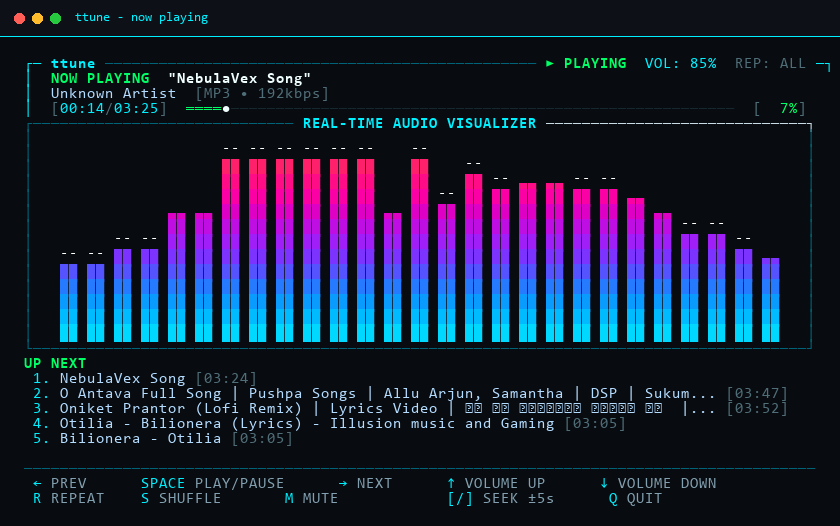
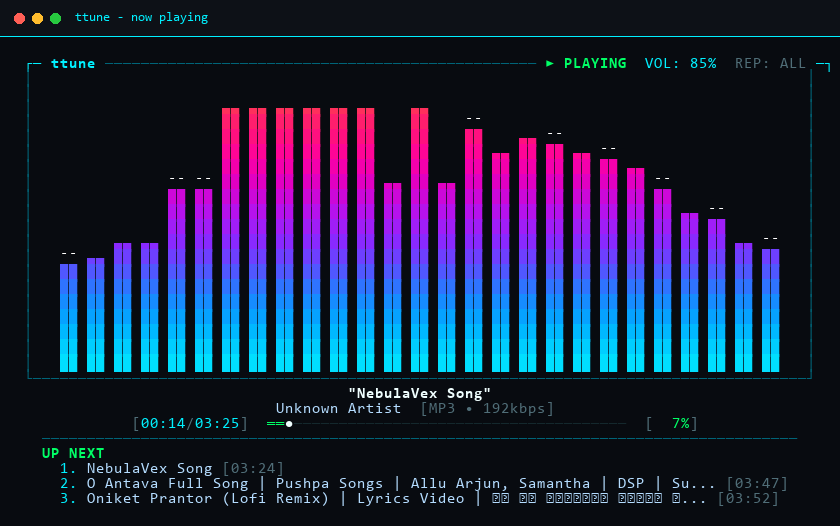
fix(ui): anchor visualizer to top, center metadata below, remove tutorial footer, and add visualizer-only mode (H)

diff --git a/ttune/ui/renderer.py b/ttune/ui/renderer.py
@@ -67,7 +67,6 @@ def fit_text(text: str, max_width: int) -> str:
     if max_width <= 0:
         return ""
 
-    # Check if text already fits
     current_w = sum(char_width(c) for c in text)
     if current_w <= max_width:
         return text
@@ -86,6 +85,14 @@ def fit_text(text: str, max_width: int) -> str:
     if max_width >= 4:
         return "".join(accum) + "..."
     return "".join(accum)
+
+
+def center_text(text: str, total_width: int) -> str:
+    """Center text within total_width display columns."""
+    w = string_width(text)
+    pad = max(0, total_width - w)
+    pad_left = pad // 2
+    return f"{' ' * pad_left}{text}"
 
 
 class UIRenderer:
@@ -107,13 +114,14 @@ class UIRenderer:
         is_muted: bool,
         spectrum_bars: np.ndarray,
         spectrum_peaks: np.ndarray,
+        visualizer_only: bool = False,
     ) -> List[str]:
         """Compose all components into a list of terminal screen lines.
 
         Guaranteed not to exceed `lines` rows, preventing scrolling artifacts.
         """
         cols = max(40, cols)
-        lines = max(16, lines)
+        lines = max(14, lines)
         out: List[str] = []
 
         c_border = color_fg(COLOR_BORDER)
@@ -130,15 +138,23 @@ class UIRenderer:
         # 1. TOP HEADER: ttune & STATUS
         # -------------------------------------------------------------
         app_tag = f"{c_border}{STYLE_BOLD}ttune{STYLE_RESET}"
-        status_tag = f"{c_green}{STYLE_BOLD}► PLAYING{STYLE_RESET}" if (is_playing and not is_paused) else (
-            f"{c_badge}{STYLE_BOLD}❚❚ PAUSED{STYLE_RESET}" if is_paused else f"{c_dim}■ STOPPED{STYLE_RESET}"
-        )
-        vol_pct = int(round(volume * 100))
-        vol_tag = f"{c_dim}MUTE{STYLE_RESET}" if is_muted else f"{c_badge}VOL: {vol_pct}%{STYLE_RESET}"
-        rep_tag = f"{c_dim}REP: {playlist.repeat_mode.value}{STYLE_RESET}"
-        shuf_tag = f"{c_green}SHUF{STYLE_RESET}" if playlist.shuffle_enabled else ""
 
-        tags = [t for t in [status_tag, vol_tag, rep_tag, shuf_tag] if t]
+        if visualizer_only:
+            status_tag = f"{c_green}{STYLE_BOLD}► VISUALIZER ONLY{STYLE_RESET}"
+            vol_pct = int(round(volume * 100))
+            vol_tag = f"{c_dim}MUTE{STYLE_RESET}" if is_muted else f"{c_badge}VOL: {vol_pct}%{STYLE_RESET}"
+            hint_tag = f"{c_dim}[H] RESTORE UI{STYLE_RESET}"
+            tags = [status_tag, vol_tag, hint_tag]
+        else:
+            status_tag = f"{c_green}{STYLE_BOLD}► PLAYING{STYLE_RESET}" if (is_playing and not is_paused) else (
+                f"{c_badge}{STYLE_BOLD}❚❚ PAUSED{STYLE_RESET}" if is_paused else f"{c_dim}■ STOPPED{STYLE_RESET}"
+            )
+            vol_pct = int(round(volume * 100))
+            vol_tag = f"{c_dim}MUTE{STYLE_RESET}" if is_muted else f"{c_badge}VOL: {vol_pct}%{STYLE_RESET}"
+            rep_tag = f"{c_dim}REP: {playlist.repeat_mode.value}{STYLE_RESET}"
+            shuf_tag = f"{c_green}SHUF{STYLE_RESET}" if playlist.shuffle_enabled else ""
+            tags = [t for t in [status_tag, vol_tag, rep_tag, shuf_tag] if t]
+
         tags_str = "  ".join(tags)
 
         left_header = f" {app_tag} "
@@ -151,7 +167,67 @@ class UIRenderer:
         out.append(header_line)
 
         # -------------------------------------------------------------
-        # 2. NOW PLAYING METADATA
+        # 2. PURE VISUALIZER MODE (Activated with 'h' key)
+        # -------------------------------------------------------------
+        if visualizer_only:
+            # Visualizer fills the entire remaining screen height!
+            viz_height = max(4, lines - 2)
+            viz_inner_width = max(10, cols - 4)
+
+            bars_lines = self.visualizer.render(
+                width=viz_inner_width,
+                height=viz_height,
+                bar_heights=spectrum_bars,
+                peak_heights=spectrum_peaks,
+            )
+
+            for bl in bars_lines:
+                vis_len = string_width(bl)
+                right_fill = " " * max(0, viz_inner_width - vis_len)
+                out.append(f"{c_border_dim}{BOX_VERT}{STYLE_RESET} {bl}{right_fill} {c_border_dim}{BOX_VERT}{STYLE_RESET}")
+
+            # Bottom border
+            viz_bottom = f"{c_border}{BOX_BOTTOM_LEFT}{BOX_HORIZ * (cols - 2)}{BOX_BOTTOM_RIGHT}{STYLE_RESET}"
+            out.append(viz_bottom)
+            return out[:lines]
+
+        # -------------------------------------------------------------
+        # 3. EXTENDED VISUALIZER AT THE TOP (Prevents layout bouncing!)
+        # -------------------------------------------------------------
+        # Calculate rows needed for bottom metadata section
+        # Metadata section:
+        # - Centered Title: 1 row
+        # - Centered Artist / Album / Format: 1 row
+        # - Centered Progress Bar: 1 row
+        # - Divider / Spacing: 1 row
+        # - UP NEXT header: 1 row
+        # - UP NEXT tracks: up_next_count (2 to 4 rows)
+        # Total bottom section lines = 5 + up_next_count
+        up_next_count = 2 if lines < 25 else (3 if lines < 32 else (4 if lines < 40 else 5))
+        bottom_needed = 5 + up_next_count
+        # Visualizer height: top header (1) + viz bottom border (1) + bottom_needed
+        viz_height = max(4, lines - 2 - bottom_needed)
+        viz_inner_width = max(10, cols - 4)
+
+        # Render spectrum bars directly at top
+        bars_lines = self.visualizer.render(
+            width=viz_inner_width,
+            height=viz_height,
+            bar_heights=spectrum_bars,
+            peak_heights=spectrum_peaks,
+        )
+
+        for bl in bars_lines:
+            vis_len = string_width(bl)
+            right_fill = " " * max(0, viz_inner_width - vis_len)
+            out.append(f"{c_border_dim}{BOX_VERT}{STYLE_RESET} {bl}{right_fill} {c_border_dim}{BOX_VERT}{STYLE_RESET}")
+
+        # Visualizer bottom frame border
+        viz_bottom = f"{c_border_dim}{BOX_BOTTOM_LEFT}{BOX_HORIZ * (cols - 2)}{BOX_BOTTOM_RIGHT}{STYLE_RESET}"
+        out.append(viz_bottom)
+
+        # -------------------------------------------------------------
+        # 4. SONG DETAILS & TRACK INFO (CENTERED IN THE MIDDLE)
         # -------------------------------------------------------------
         current_meta = playlist.current_track()
         if current_meta:
@@ -169,19 +245,18 @@ class UIRenderer:
             artist_album = "Select a media file or folder to start playback"
             fmt_badge = ""
 
-        now_tag = f"{c_green}{STYLE_BOLD}NOW PLAYING{STYLE_RESET}"
-        title_disp = fit_text(f'"{song_title}"', max(10, cols - 6))
-        meta_disp = fit_text(artist_album, max(10, cols - string_width(fmt_badge) - 8))
+        # A: Centered Song Title
+        max_title_w = max(10, cols - 8)
+        title_fitted = fit_text(f'"{song_title}"', max_title_w)
+        title_styled = f"{c_title}{STYLE_BOLD}{title_fitted}{STYLE_RESET}"
+        out.append(center_text(title_styled, cols))
 
-        # Line A: Tag & Title
-        out.append(f"{c_border}{BOX_VERT}{STYLE_RESET}  {now_tag}  {c_title}{STYLE_BOLD}{title_disp}{STYLE_RESET}")
-        # Line B: Artist / Album & Audio Badge
-        meta_line = f"{c_border}{BOX_VERT}{STYLE_RESET}  {c_artist}{meta_disp}{STYLE_RESET}  {c_dim}{fmt_badge}{STYLE_RESET}"
-        out.append(meta_line)
+        # B: Centered Artist / Album & Format Badge
+        meta_str = f"{c_artist}{artist_album}{STYLE_RESET}  {c_dim}{fmt_badge}{STYLE_RESET}"
+        meta_fitted = fit_text(meta_str, max(10, cols - 8))
+        out.append(center_text(meta_fitted, cols))
 
-        # -------------------------------------------------------------
-        # 3. PLAYBACK PROGRESS BAR
-        # -------------------------------------------------------------
+        # C: Centered Playback Progress Bar
         cur_str = format_duration(current_pos)
         dur_str = format_duration(duration) if duration > 0 else "--:--"
         pct = (current_pos / duration) if duration > 0 else 0.0
@@ -191,10 +266,11 @@ class UIRenderer:
         time_tag = f"{c_dim}[{c_badge}{cur_str}{c_dim}/{c_badge}{dur_str}{c_dim}]{STYLE_RESET}"
         pct_tag = f"{c_dim}[{c_green}{pct_int:3d}%{c_dim}]{STYLE_RESET}"
 
-        fixed_len = string_width(time_tag) + string_width(pct_tag) + 8
-        bar_avail = max(10, cols - fixed_len)
-        filled_len = int(pct * bar_avail)
-        empty_len = max(0, bar_avail - filled_len - 1)
+        # Calculate progress bar width (centered, max 50 chars wide)
+        fixed_len = string_width(time_tag) + string_width(pct_tag) + 6
+        target_bar_len = min(40, max(8, cols - fixed_len - 10))
+        filled_len = int(pct * target_bar_len)
+        empty_len = max(0, target_bar_len - filled_len - 1)
 
         c_fill = color_fg(COLOR_PROGRESS_BAR)
         c_bg = color_fg(COLOR_PROGRESS_BG)
@@ -203,54 +279,18 @@ class UIRenderer:
             f"{color_fg(COLOR_TITLE)}{PROG_KNOB}"
             f"{c_bg}{PROG_EMPTY * empty_len}{STYLE_RESET}"
         )
-        progress_line = f"{c_border}{BOX_VERT}{STYLE_RESET}  {time_tag}  {prog_bar_str}  {pct_tag}"
-        out.append(progress_line)
-
-        # -------------------------------------------------------------
-        # 4. REAL-TIME AUDIO VISUALIZER
-        # -------------------------------------------------------------
-        # Determine heights based on available terminal lines
-        # Fixed lines:
-        # Header (1) + Now Playing (3) + Progress (1) + Viz Borders (2) = 7
-        # Up next header (1) + Up next tracks (2..5) + Footer (3) = 6..9
-        # Total fixed = 13..16
-        up_next_count = 3 if lines < 26 else (5 if lines < 38 else 6)
-        footer_height = 3 if cols >= 65 else 4
-        fixed_lines = 7 + 1 + up_next_count + footer_height
-
-        viz_height = max(5, lines - fixed_lines)
-        viz_inner_width = max(10, cols - 4)
-
-        # Top border of visualizer box
-        viz_title = f" {c_border}{STYLE_BOLD}REAL-TIME AUDIO VISUALIZER{STYLE_RESET} "
-        v_title_len = string_width(viz_title)
-        v_dash = max(0, cols - 2 - v_title_len)
-        v_dash_left = v_dash // 2
-        v_dash_right = v_dash - v_dash_left
-        viz_top = f"{c_border_dim}{BOX_TOP_LEFT}{BOX_HORIZ * v_dash_left}{viz_title}{BOX_HORIZ * v_dash_right}{BOX_TOP_RIGHT}{STYLE_RESET}"
-        out.append(viz_top)
-
-        # Render spectrum bars
-        bars_lines = self.visualizer.render(
-            width=viz_inner_width,
-            height=viz_height,
-            bar_heights=spectrum_bars,
-            peak_heights=spectrum_peaks,
-        )
-
-        for bl in bars_lines:
-            vis_len = string_width(bl)
-            right_fill = " " * max(0, viz_inner_width - vis_len)
-            out.append(f"{c_border_dim}{BOX_VERT}{STYLE_RESET} {bl}{right_fill} {c_border_dim}{BOX_VERT}{STYLE_RESET}")
-
-        # Bottom border of visualizer box
-        viz_bottom = f"{c_border_dim}{BOX_BOTTOM_LEFT}{BOX_HORIZ * (cols - 2)}{BOX_BOTTOM_RIGHT}{STYLE_RESET}"
-        out.append(viz_bottom)
+        progress_line = f"{time_tag}  {prog_bar_str}  {pct_tag}"
+        out.append(center_text(progress_line, cols))
 
         # -------------------------------------------------------------
         # 5. UP NEXT PLAYLIST QUEUE
         # -------------------------------------------------------------
-        out.append(f"{c_green}{STYLE_BOLD}UP NEXT{STYLE_RESET}")
+        # Subtle horizontal divider
+        divider = f"{c_border_dim}{BOX_HORIZ * max(10, cols - 4)}{STYLE_RESET}"
+        out.append(center_text(divider, cols))
+
+        up_next_header = f"{c_green}{STYLE_BOLD}UP NEXT{STYLE_RESET}"
+        out.append(f"  {up_next_header}")
 
         up_next_tracks = playlist.get_up_next(count=up_next_count)
         if up_next_tracks:
@@ -258,52 +298,15 @@ class UIRenderer:
                 t_title = track.title
                 t_artist = f" - {track.artist}" if track.artist and track.artist != "Unknown Artist" else ""
                 t_dur = f"[{track.duration_str}]" if track.duration > 0 else ""
-                avail_title = max(10, cols - len(f" {idx}. ") - len(t_dur) - 4)
+                avail_title = max(10, cols - len(f"    {idx}. ") - len(t_dur) - 4)
                 combined = fit_text(f"{t_title}{t_artist}", avail_title)
-                line_str = f" {c_badge}{idx}.{STYLE_RESET} {c_artist}{combined}{STYLE_RESET} {c_dim}{t_dur}{STYLE_RESET}"
+                line_str = f"    {c_badge}{idx}.{STYLE_RESET} {c_artist}{combined}{STYLE_RESET} {c_dim}{t_dur}{STYLE_RESET}"
                 out.append(line_str)
         else:
-            out.append(f" {c_dim}1. [Queue empty - End of playlist]{STYLE_RESET}")
+            out.append(f"    {c_dim}1. [Queue empty - End of playlist]{STYLE_RESET}")
 
-        # -------------------------------------------------------------
-        # 6. KEYBOARD CONTROLS FOOTER
-        # -------------------------------------------------------------
-        # Pad with empty lines if needed
-        while len(out) < lines - footer_height:
+        # Ensure exact lines count without scrolling
+        while len(out) < lines:
             out.append("")
-
-        # Divider line
-        foot_border = f"{c_border_dim}{BOX_HORIZ * cols}{STYLE_RESET}"
-        out.append(foot_border)
-
-        if cols >= 80:
-            # Full 2-row controls
-            row1 = (
-                f" {c_badge}←{STYLE_RESET} {c_key_txt}PREV{STYLE_RESET}      "
-                f"{c_badge}SPACE{STYLE_RESET} {c_key_txt}PLAY/PAUSE{STYLE_RESET}      "
-                f"{c_badge}→{STYLE_RESET} {c_key_txt}NEXT{STYLE_RESET}      "
-                f"{c_badge}↑{STYLE_RESET} {c_key_txt}VOLUME UP{STYLE_RESET}      "
-                f"{c_badge}↓{STYLE_RESET} {c_key_txt}VOLUME DOWN{STYLE_RESET}"
-            )
-            row2 = (
-                f" {c_badge}R{STYLE_RESET} {c_key_txt}REPEAT{STYLE_RESET}    "
-                f"{c_badge}S{STYLE_RESET} {c_key_txt}SHUFFLE{STYLE_RESET}       "
-                f"{c_badge}M{STYLE_RESET} {c_key_txt}MUTE{STYLE_RESET}            "
-                f"{c_badge}[/]{STYLE_RESET} {c_key_txt}SEEK ±5s{STYLE_RESET}      "
-                f"{c_badge}Q{STYLE_RESET} {c_key_txt}QUIT{STYLE_RESET}"
-            )
-            out.append(row1)
-            out.append(row2)
-        else:
-            # Compact 1-row or 2-row controls
-            row1 = (
-                f" {c_badge}←/→{STYLE_RESET} {c_key_txt}SKIP{STYLE_RESET}  "
-                f"{c_badge}SPC{STYLE_RESET} {c_key_txt}PLAY{STYLE_RESET}  "
-                f"{c_badge}↑/↓{STYLE_RESET} {c_key_txt}VOL{STYLE_RESET}  "
-                f"{c_badge}R{STYLE_RESET} {c_key_txt}REP{STYLE_RESET}  "
-                f"{c_badge}S{STYLE_RESET} {c_key_txt}SHUF{STYLE_RESET}  "
-                f"{c_badge}Q{STYLE_RESET} {c_key_txt}QUIT{STYLE_RESET}"
-            )
-            out.append(row1)
 
         return out[:lines]

diff --git a/ttune/cli.py b/ttune/cli.py
@@ -57,6 +57,7 @@ class TTuneApp:
         self.renderer = UIRenderer()
         self.running = False
         self.volume = volume
+        self.visualizer_only = False
 
     def on_track_finished(self):
         """Callback from audio engine when track finishes."""
@@ -150,6 +151,8 @@ class TTuneApp:
                         self.playlist.toggle_shuffle()
                     elif key in ("m", "M"):
                         self.player.toggle_mute()
+                    elif key in ("h", "H"):
+                        self.visualizer_only = not self.visualizer_only
                     elif key == "[":
                         self.player.seek_relative(-5.0)
                     elif key == "]":
@@ -176,6 +179,7 @@ class TTuneApp:
                     is_muted=self.player.is_muted,
                     spectrum_bars=bars,
                     spectrum_peaks=peaks,
+                    visualizer_only=self.visualizer_only,
                 )
 
                 # 5. Render without flickering

diff --git a/tests/test_renderer.py b/tests/test_renderer.py
@@ -68,3 +68,30 @@ def test_renderer_frame_dimensions():
         spectrum_peaks=np.zeros(40, dtype=np.float32),
     )
     assert len(lines_140x45) <= 45
+
+
+def test_visualizer_only_mode():
+    renderer = UIRenderer()
+    pm = PlaylistManager(["song1.mp3"])
+
+    lines_viz = renderer.build_frame(
+        cols=80,
+        lines=30,
+        playlist=pm,
+        current_pos=10.0,
+        duration=100.0,
+        volume=1.0,
+        is_playing=True,
+        is_paused=False,
+        is_muted=False,
+        spectrum_bars=np.zeros(20, dtype=np.float32),
+        spectrum_peaks=np.zeros(20, dtype=np.float32),
+        visualizer_only=True,
+    )
+    assert len(lines_viz) <= 30
+    full_text = "\n".join(lines_viz)
+    assert "VISUALIZER ONLY" in full_text
+    # Should NOT contain song title or up next
+    assert "UP NEXT" not in full_text
+    assert "song1.mp3" not in full_text
+

diff --git a/scripts/capture_screenshots.py b/scripts/capture_screenshots.py
@@ -255,8 +255,9 @@ def generate_all_screenshots():
         is_muted=False,
         spectrum_bars=bars2,
         spectrum_peaks=peaks2,
+        visualizer_only=True,
     )
-    render_terminal_to_image(viz_frame, "docs/screenshot-visualizer.png", title="ttune - real-time rgb visualizer", cols=cols)
+    render_terminal_to_image(viz_frame, "docs/screenshot-visualizer.png", title="ttune - visualizer only mode (H)", cols=cols)
 
     playlist.next_track(force=True)
     next_track = playlist.current_track()

diff --git a/README.md b/README.md
@@ -15,12 +15,13 @@
 ## Features
 
 - **Real-Time FFT Spectrum Visualizer**: Hardware-like equalizer bars rendered with truecolor RGB LED blocks transitioning through cyan, blue, purple, magenta, and red/pink. Includes dynamic peak hold and smooth gravity decay.
+- **Visualizer-Only Mode (`H` Key)**: Press <kbd>H</kbd> to hide all song information and queue, expanding the spectrum visualizer to fill the entire terminal screen.
+- **Rock-Solid Layout with Centered Metadata**: The visualizer is anchored directly at the top with centered song title, artist, and progress bar below, preventing layout jitter or bouncing during full-screen resizing.
 - **Universal Media Playback**: Supports all common audio formats and decodes the audio track from video files without displaying video.
 - **Recursive Directory Discovery**: Automatically scans music folders and builds naturally sorted playlists (`track 2` before `track 10`).
 - **Smart Metadata Extraction**: Reads embedded title, artist, album, and bitrate tags with automatic clean filename fallback.
 - **Compact UP NEXT Queue**: Always shows upcoming tracks in the playlist.
 - **Interactive File Browser**: Built-in terminal directory navigator to browse and select music.
-- **Adaptive Terminal Layout**: Dynamically scales equalizer height, bar counts, and text formatting when resizing your terminal.
 - **Zero-Flicker Screen Buffer**: Uses ANSI cursor home positioning at ~35 FPS with low CPU consumption (<3%).
 
 ---
@@ -57,6 +58,7 @@ Playback and decoding are handled through FFmpeg / libav:
 | <kbd>→</kbd> | Next track |
 | <kbd>↑</kbd> | Volume up (+5%) |
 | <kbd>↓</kbd> | Volume down (-5%) |
+| <kbd>H</kbd> | Toggle pure visualizer mode (hide song info & queue) |
 | <kbd>[</kbd> | Seek backward (-5s) |
 | <kbd>]</kbd> | Seek forward (+5s) |
 | <kbd>R</kbd> | Cycle repeat mode (`ALL` → `ONE` → `OFF`) |
